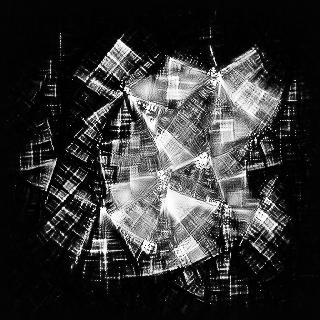
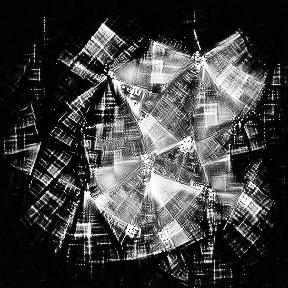
crop alphas

diff --git a/src/diagrams/SemiTransparentExamples.html b/src/diagrams/SemiTransparentExamples.html
@@ -16,17 +16,17 @@
   </figcaption>
   <div id='container' class="{mode}">
     {#each images as img, i}
-      <svg width="100%" height="224px" viewBox="0 0 448 448">
+      <svg width="100%" height="224px" viewBox="0 0 288 288">
         <defs>
           {#if mode!='alpha' & mode!='rgb'}
             <mask id="mask{i}">
               <image xlink:href="images/transparent/alpha/{img}"
-              x="0" y="0" height="448px" width="448px"/>
+              x="0" y="0" height="288px" width="288px"/>
             </mask>
           {/if}
         </defs>
         <image xlink:href="images/transparent/{mode=='alpha' ? 'alpha' : 'rgb'}/{img}"
-            x="0" y="0" height="448px" width="448px"
+            x="0" y="0" height="288px" width="288px"
             mask="url(#mask{i})"/>
       </svg>
     {/each}
@@ -37,7 +37,7 @@
 <style>
   #container {
     display: grid;
-    grid-gap: 10px;
+    grid-gap: 5px;
     grid-template-columns: repeat(3, 1fr);
     grid-column: text-start / text-end;
   }
@@ -57,7 +57,7 @@
   }
 
   svg:hover{
-    transform: scale(1.6);
+    transform: scale(1.5);
   }
 
 
